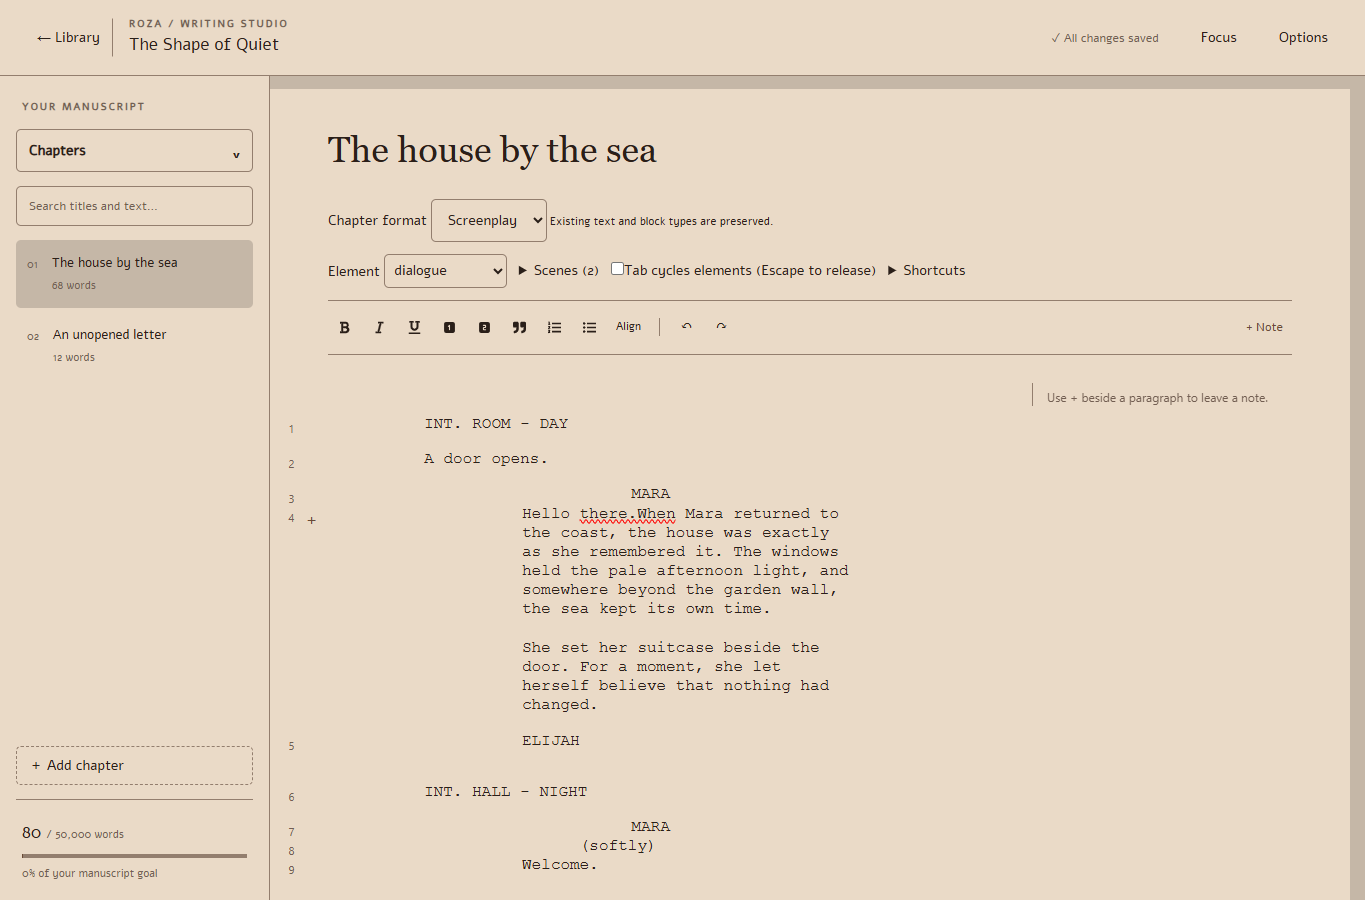
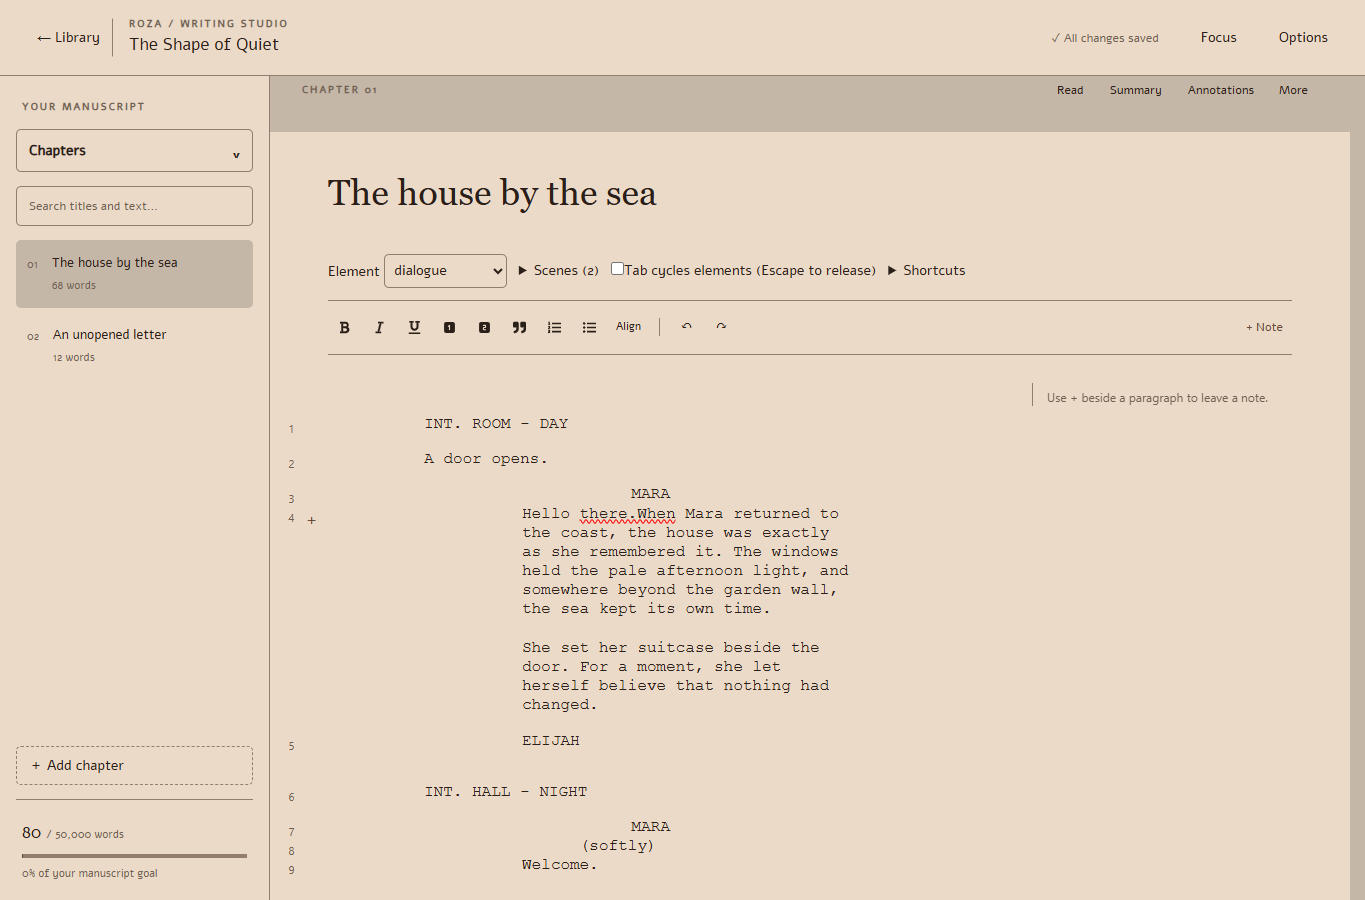
fix: move chapter format selection into explanatory modal

Changed region(s): [[0.1846, 0.0933, 1.0, 0.2489]]

diff --git a/frontend/src/components/WritingStudio/WritingStudio.tsx b/frontend/src/components/WritingStudio/WritingStudio.tsx
@@ -1,3 +1,4 @@
+import { ChapterFormatDialog } from "./ChapterFormatDialog";
 import { downloadScreenplayPdf } from "./screenplayPdf";
 import { ItemMenu } from "./ItemMenu";
 import { CategorySelect } from "./CategorySelect";
@@ -167,6 +168,7 @@ export function Workspace({ initialBook }: { initialBook: Book }) {
   );
   const [size, setSize] = useState(() => preference("roza:studio:font", "20"));
   const [settings, setSettings] = useState(false);
+  const [formatChapter, setFormatChapter] = useState<string | null>(null);
   const [restoreKey, setRestoreKey] = useState(0);
   const [archived, setArchived] = useState<BookDataItem[]>([]);
   const items = book[category].filter((item) => !item.isArchived);
@@ -314,6 +316,19 @@ export function Workspace({ initialBook }: { initialBook: Book }) {
       style={{ "--ws-font-size": `${size}px` } as React.CSSProperties}
     >
       {confirmationDialog}
+      {formatChapter &&
+        item?.type === "chapters" &&
+        item.id === formatChapter && (
+          <ChapterFormatDialog
+            key={item.id}
+            value={item.format || "prose"}
+            onClose={() => setFormatChapter(null)}
+            onApply={(format) => {
+              if (!store.recovery) updateItem({ format });
+              setFormatChapter(null);
+            }}
+          />
+        )}
       <header className="ws-header">
         <button
           className="ws-back"
@@ -643,6 +658,15 @@ export function Workspace({ initialBook }: { initialBook: Book }) {
                   <ItemMenu>
                     <summary>More</summary>
                     <div>
+                      {item.type === "chapters" && !preview && (
+                        <button
+                          type="button"
+                          disabled={!!store.recovery}
+                          onClick={() => setFormatChapter(item.id)}
+                        >
+                          Chapter Format
+                        </button>
+                      )}
                       <button
                         type="button"
                         onClick={() => void leave(`/book/${book.id}`)}
@@ -675,25 +699,6 @@ export function Workspace({ initialBook }: { initialBook: Book }) {
                   onChange={(event) => updateItem({ name: event.target.value })}
                 />
 
-                {item.type === "chapters" && !preview && (
-                  <label>
-                    Chapter format{" "}
-                    <select
-                      aria-label="Chapter format"
-                      disabled={!!store.recovery}
-                      value={item.format || "prose"}
-                      onChange={(event) =>
-                        updateItem({
-                          format: event.target.value as "prose" | "screenplay",
-                        })
-                      }
-                    >
-                      <option value="prose">Prose</option>
-                      <option value="screenplay">Screenplay</option>
-                    </select>
-                    <small> Existing text and block types are preserved.</small>
-                  </label>
-                )}
                 {summary && item.type === "chapters" ? (
                   <section
                     id="ws-chapter-summary"

diff --git a/frontend/src/components/WritingStudio/ChapterFormatDialog.tsx b/frontend/src/components/WritingStudio/ChapterFormatDialog.tsx
@@ -1,0 +1,92 @@
+import { useEffect, useId, useRef, useState } from "react";
+import "../Modals/confirmDialog.css";
+
+type Format = "prose" | "screenplay";
+export function ChapterFormatDialog({
+  value,
+  onApply,
+  onClose,
+}: {
+  value: Format;
+  onApply: (format: Format) => void;
+  onClose: () => void;
+}) {
+  const dialog = useRef<HTMLDialogElement>(null);
+  const [format, setFormat] = useState(value);
+  const title = useId(),
+    description = useId();
+  useEffect(() => {
+    const element = dialog.current!;
+    element.showModal();
+    return () => element.close();
+  }, []);
+  return (
+    <dialog
+      ref={dialog}
+      className="app-confirm-dialog ws-format-dialog"
+      aria-labelledby={title}
+      aria-describedby={description}
+      onCancel={(event) => {
+        event.preventDefault();
+        onClose();
+      }}
+      onKeyDown={(event) => event.stopPropagation()}
+    >
+      <h2 id={title}>Chapter Format</h2>
+      <p id={description}>
+        Choose how you write this chapter. Each chapter can use its own format.
+      </p>
+      <fieldset>
+        <legend>Writing format</legend>
+        <label className="ws-format-choice">
+          <input
+            type="radio"
+            name="chapter-format"
+            checked={format === "prose"}
+            onChange={() => setFormat("prose")}
+          />
+          <span>
+            <strong>Prose</strong>
+            <small>
+              Traditional paragraphs and rich text for novels and stories.
+            </small>
+          </span>
+        </label>
+        <label className="ws-format-choice">
+          <input
+            type="radio"
+            name="chapter-format"
+            checked={format === "screenplay"}
+            onChange={() => setFormat("screenplay")}
+          />
+          <span>
+            <strong>Screenplay</strong>
+            <small>
+              Scene headings, action, character cues and dialogue, with script
+              layout and keyboard controls.
+            </small>
+          </span>
+        </label>
+      </fieldset>
+      <p>
+        Switching changes the writing tools and layout. Your existing text,
+        formatting, summaries and annotations are kept. Existing blocks keep
+        their types; switching does not automatically convert prose into a
+        script or script elements into prose paragraphs. You can change
+        individual elements while editing.
+      </p>
+      <div className="app-confirm-actions">
+        <button type="button" onClick={onClose}>
+          Cancel
+        </button>
+        <button
+          type="button"
+          className="app-confirm-action"
+          onClick={() => onApply(format)}
+        >
+          Apply format
+        </button>
+      </div>
+    </dialog>
+  );
+}

diff --git a/frontend/src/components/WritingStudio/writingStudio.css b/frontend/src/components/WritingStudio/writingStudio.css
@@ -2046,3 +2046,5 @@ padding: 6px 10px;
 .sp-tools select{max-width:100%;padding:.35rem;}
 .sp-tools details button{display:block;padding:.4rem;}
 @media(max-width:600px){.sp-page{width:100%;font-size:14px!important;}.ws-prose .sp-dialogue{margin-left:10%;margin-right:10%;}.ws-prose .sp-parenthetical{margin-left:18%;margin-right:15%;}.ws-prose .sp-character{margin-left:25%;}}
+
+.ws-format-dialog{width:min(520px,calc(100vw - 32px));}.ws-format-dialog fieldset{border:0;padding:0;margin:0 0 20px;}.ws-format-dialog legend{font-weight:600;margin-bottom:8px;}.ws-format-choice{display:flex;gap:12px;align-items:flex-start;border:1px solid var(--ws-line,#c5b8a8);border-radius:8px;padding:12px;margin-bottom:10px;cursor:pointer;}.ws-format-choice:has(input:checked){border-color:var(--ws-accent,#7c5c42);background:#7c5c420a;}.ws-format-choice input{margin-top:5px;accent-color:var(--ws-accent,#7c5c42);}.ws-format-choice small{display:block;margin-top:4px;line-height:1.5;color:var(--ws-muted,#7a6856);}
